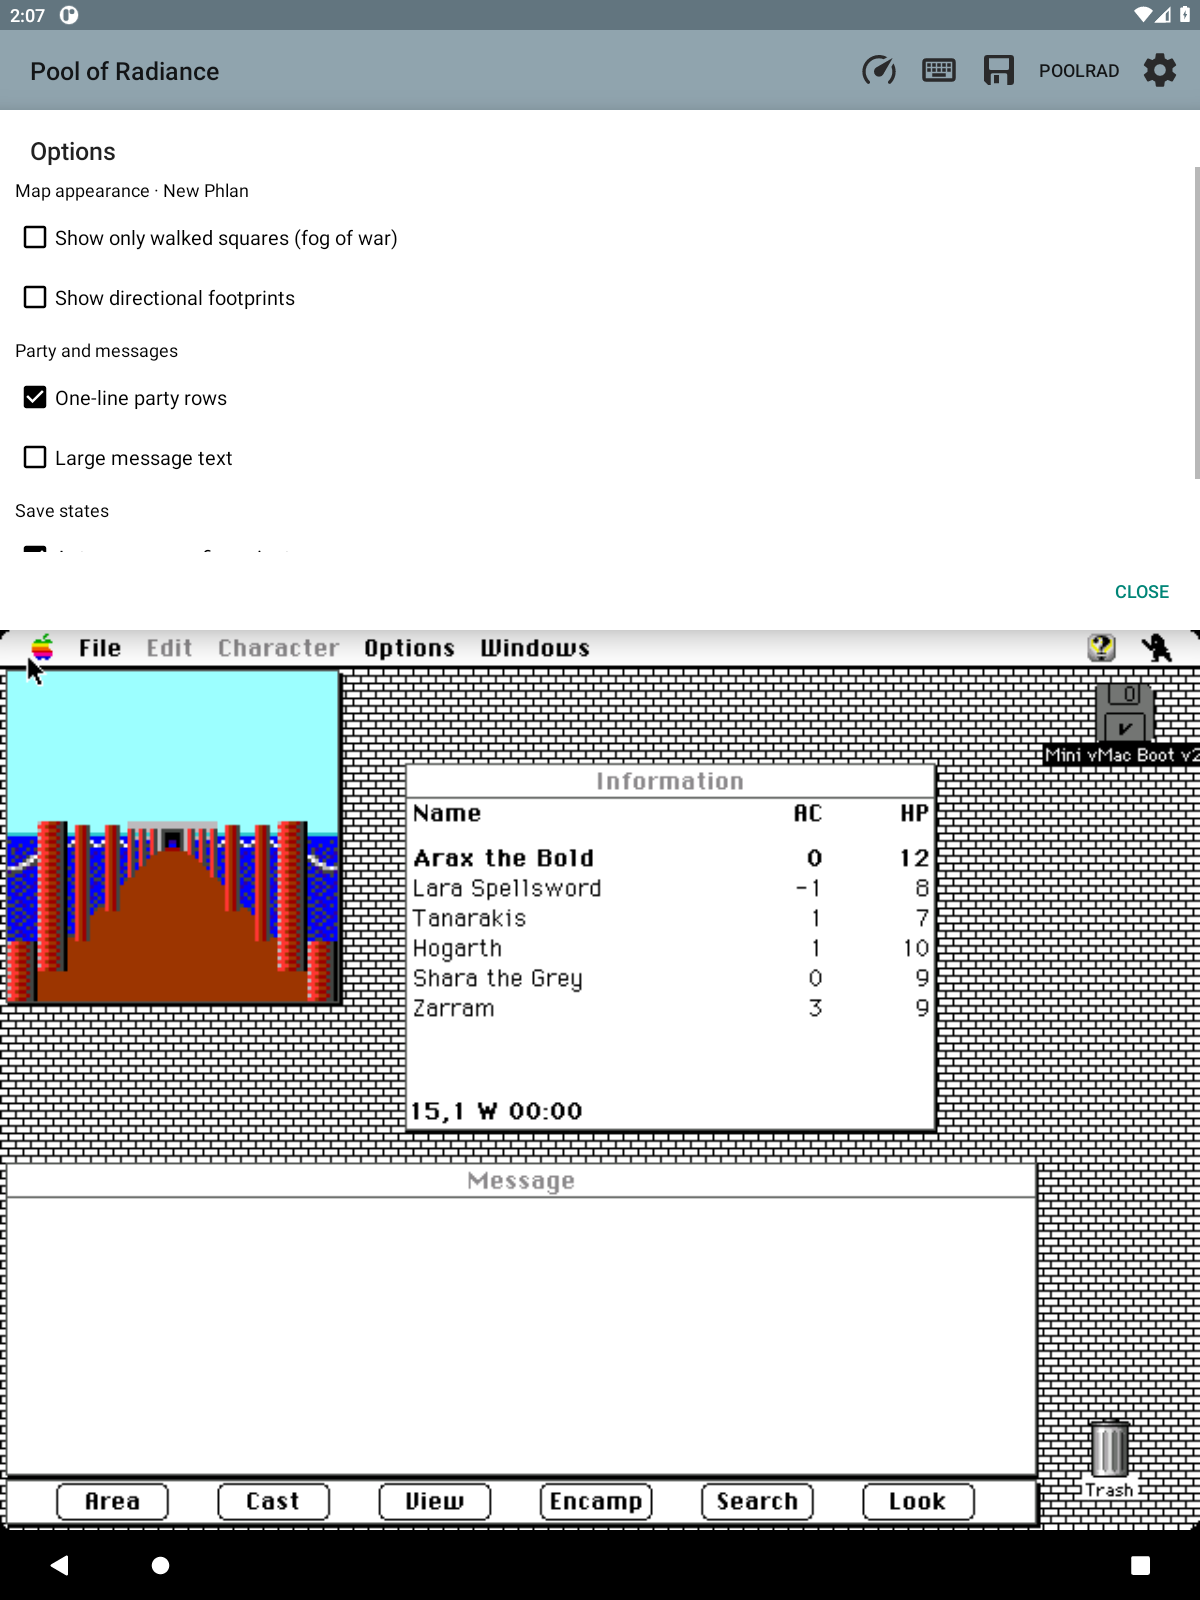
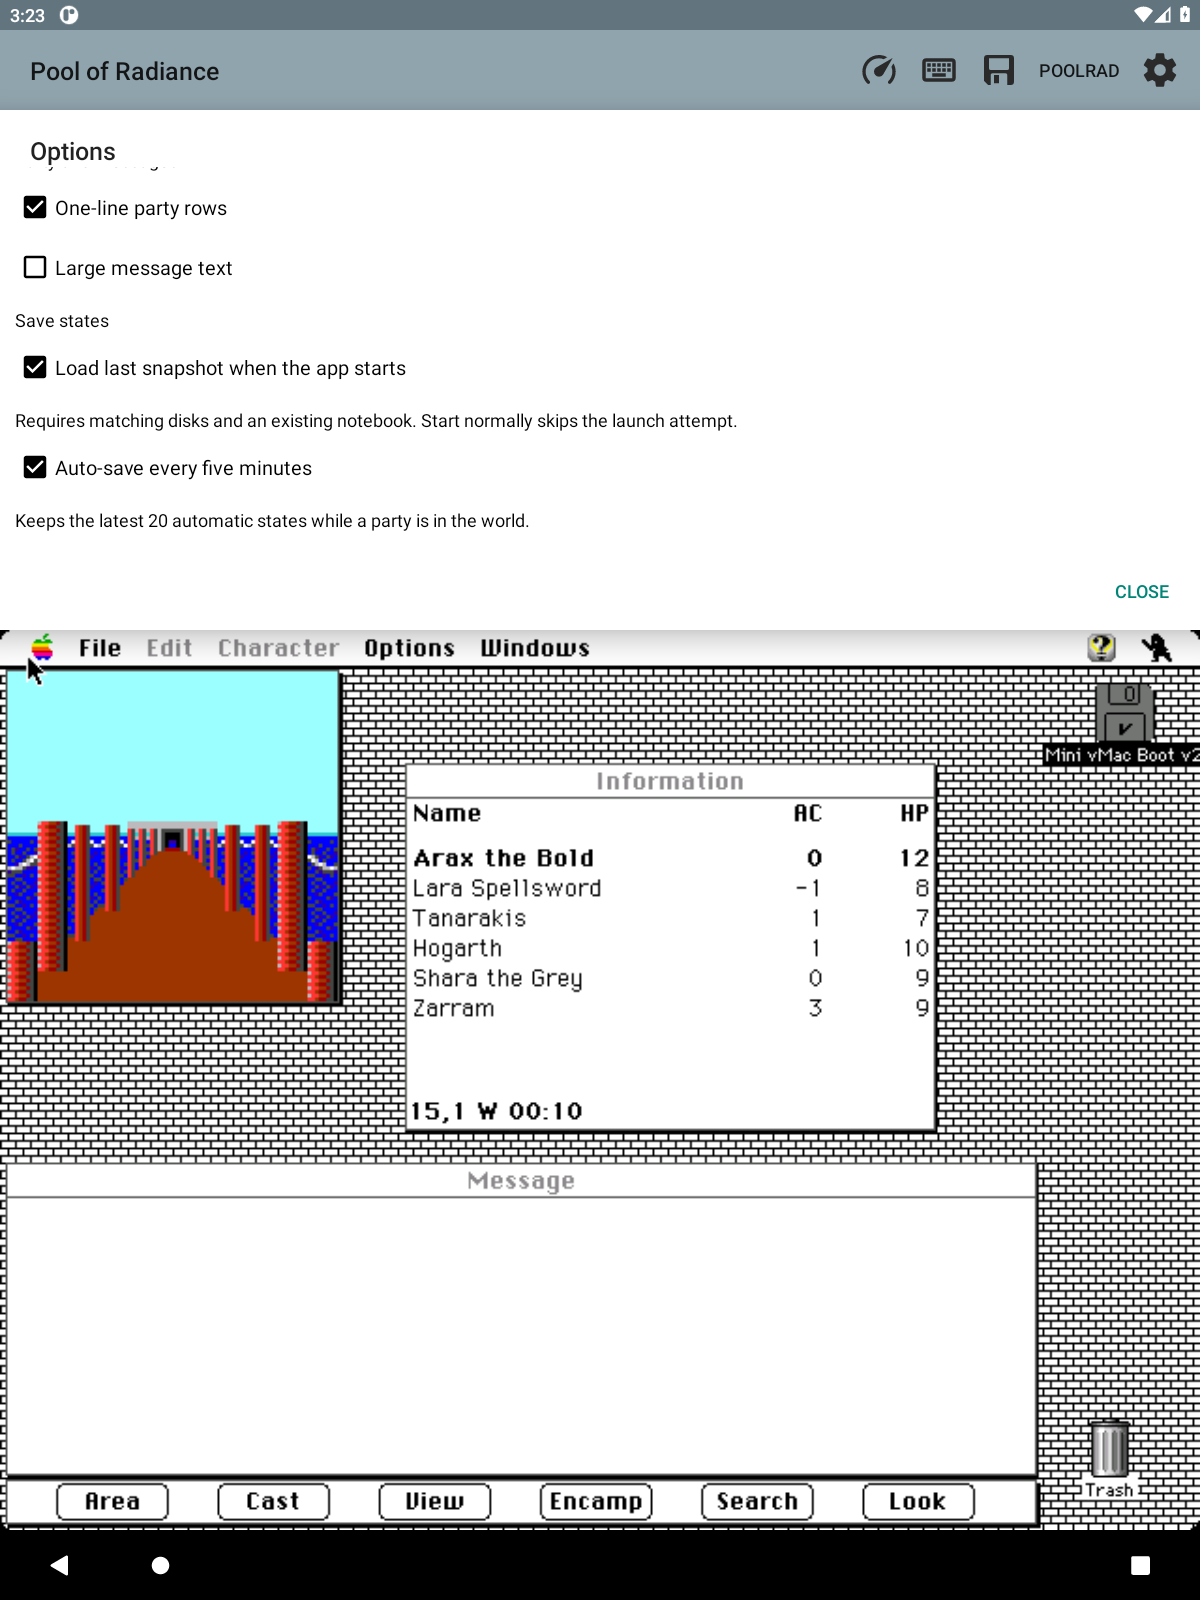
Refresh README screenshots for automatic launch restore

diff --git a/README.md b/README.md
@@ -96,10 +96,14 @@ The small previews are encoded in the background, and each snapshot remembers
 its notebook. Snapshots now require disk verification: older emulator snapshots
 are unsupported. A missing picture does not block a valid new snapshot.
 
+<img src="docs/images/readme-save-preview.png" width="760" alt="Version 0.85 quick-save preview with capture time and required disk matching">
+
 **Resume on launch:** the app tries your last completed quick, named or automatic
 snapshot. It resumes when the mounted disks match and the paired notebook still
 exists. **Start normally** skips the attempt; **Info → Options** can turn it off.
 If a snapshot cannot be used, the Mac boots normally.
+
+<img src="docs/images/readme-options.png" width="760" alt="Launch restore and five-minute autosave options in version 0.85">
 
 Original-game save-file backups live under **Settings → Back up / restore game
 saves…**. These are separate from emulator snapshots and notebook exports.

diff --git a/docs/AUTO_LOAD.md b/docs/AUTO_LOAD.md
@@ -175,3 +175,12 @@ test after its documented matching-snapshot crash-audit precondition.
 
 Snapshots still do not restore disk contents or make arbitrary hard quits safe.
 Use normal guest shutdown and independent disk backups.
+
+
+Published APK verification: 0.85.0, versionCode 151, all four Android ABIs.
+The GitHub asset digest matches the installed screenshot build:
+38b7a1ae25a21904a664d87fa07f09b5f4180b3046aa7dc41b9e8e818a2c2f0d.
+After normal shutdown/update, the original game loaded F34Resume again.
+The refreshed README Options and save-preview images were captured and
+visually inspected from that published APK; the other four images remain
+one release old. Installation evidence is in scratch/f34-published-update.

diff --git a/docs/README_SCREENSHOTS.md b/docs/README_SCREENSHOTS.md
@@ -23,7 +23,7 @@ Visually inspect every image and correct its README caption before committing.
 A version label alone does not prove a modified development APK matches a tag:
 install the published APK with update-test-app.py before these captures.
 
-    python3 tools/readme-screenshots.py check 0.84.0
+    python3 tools/readme-screenshots.py check 0.85.0
 
 The check reads every HTML or Markdown image in the README, verifies its file
 and recorded hash, and counts intervening numeric release tags. release.sh runs
